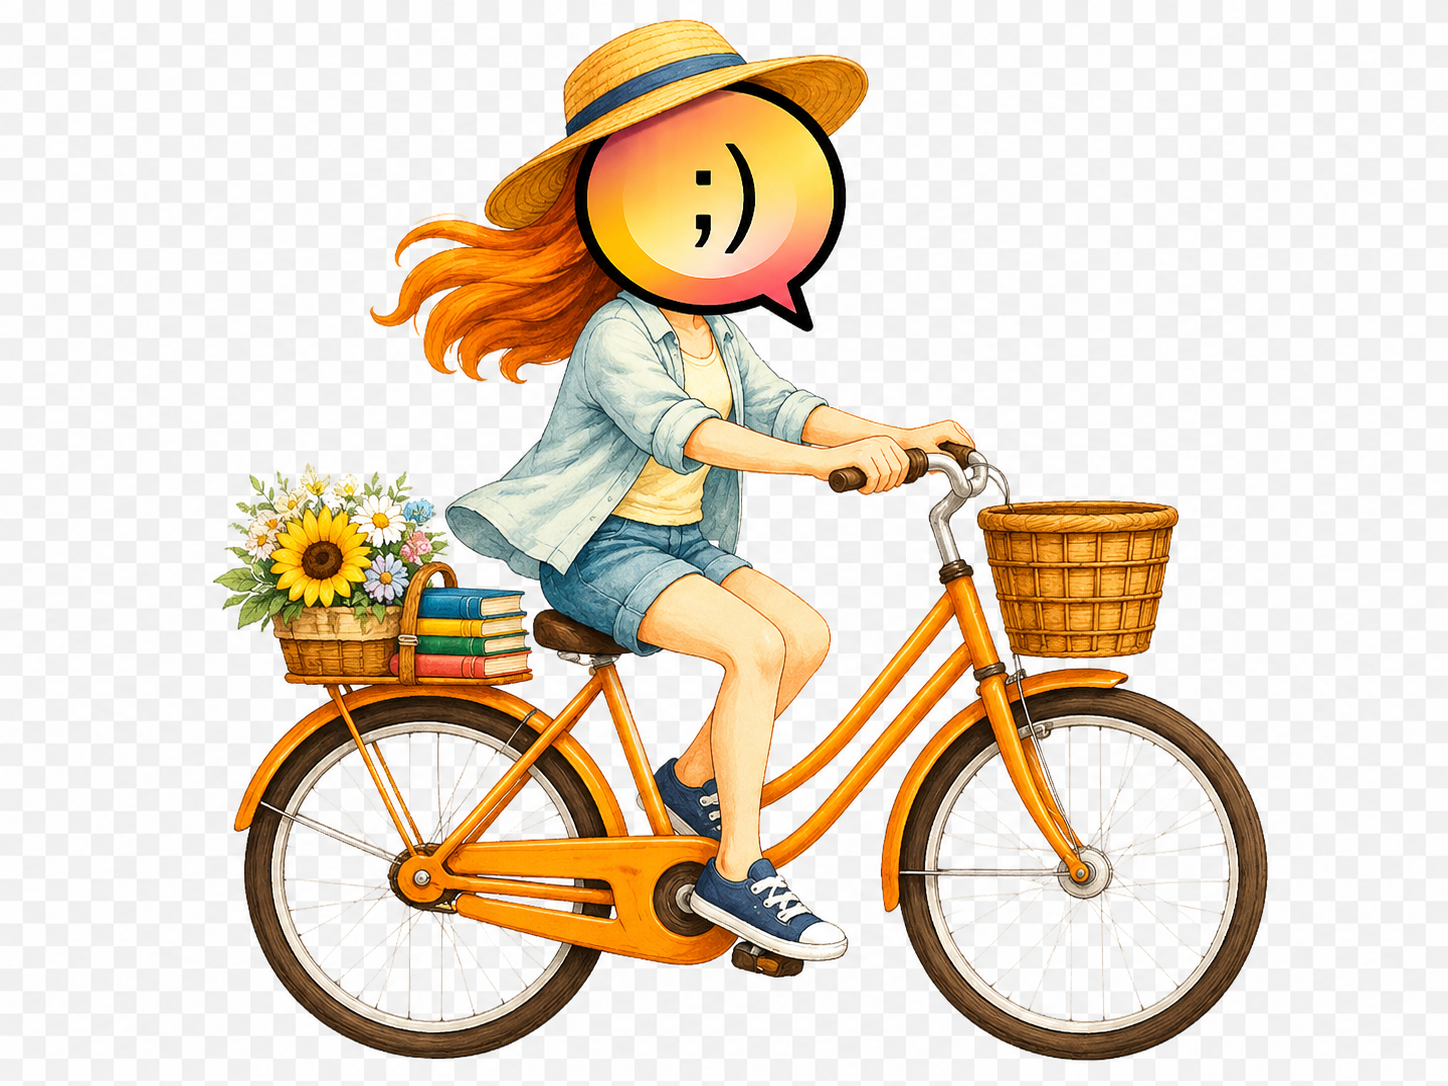
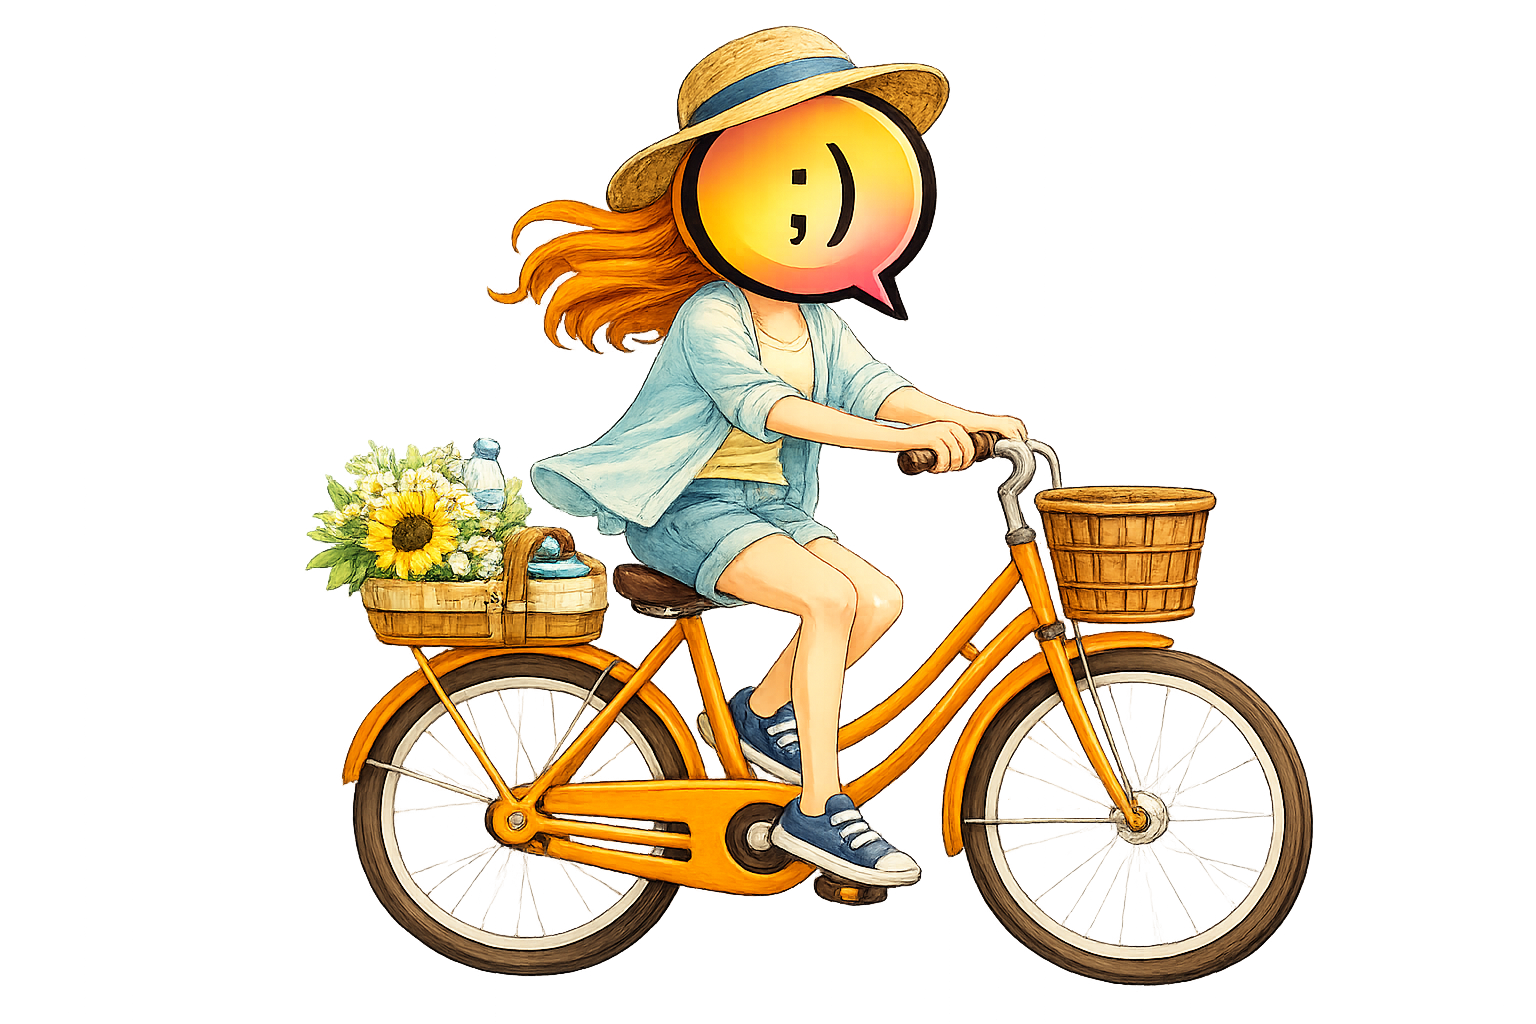
Smooth login cyclist animation

diff --git a/app/pages/login.vue b/app/pages/login.vue
@@ -256,15 +256,17 @@ async function handleLogin() {
   position: absolute;
   bottom: clamp(2.25rem, 9vh, 6rem);
   left: 0;
-  width: clamp(14rem, 26vw, 23rem);
-  animation: cyclist-route 20s linear infinite;
+  width: clamp(16rem, 30vw, 26rem);
+  animation: cyclist-route 32s linear infinite;
+  will-change: transform;
 }
 
 .cyclist-art {
   display: block;
   width: 100%;
   height: auto;
-  animation: cyclist-bob 0.9s ease-in-out infinite;
+  animation: cyclist-bob 1.35s ease-in-out infinite;
+  will-change: transform;
 }
 
 .scene-foreground {
@@ -313,12 +315,8 @@ async function handleLogin() {
   0% {
     transform: translateX(calc(-100% - 3vw)) scaleX(1);
   }
-  50% {
-    transform: translateX(calc(100vw + 3vw)) scaleX(1);
-  }
-  50.01%,
   100% {
-    transform: translateX(calc(-100% - 3vw)) scaleX(1);
+    transform: translateX(calc(100vw + 3vw)) scaleX(1);
   }
 }
 
@@ -328,7 +326,7 @@ async function handleLogin() {
     transform: translateY(0);
   }
   50% {
-    transform: translateY(-0.18rem);
+    transform: translateY(-0.12rem);
   }
 }
 
@@ -354,7 +352,7 @@ async function handleLogin() {
 
   .cyclist-track {
     bottom: 2.25rem;
-    width: clamp(11rem, 46vw, 14rem);
+    width: clamp(12rem, 52vw, 16rem);
   }
 }
 